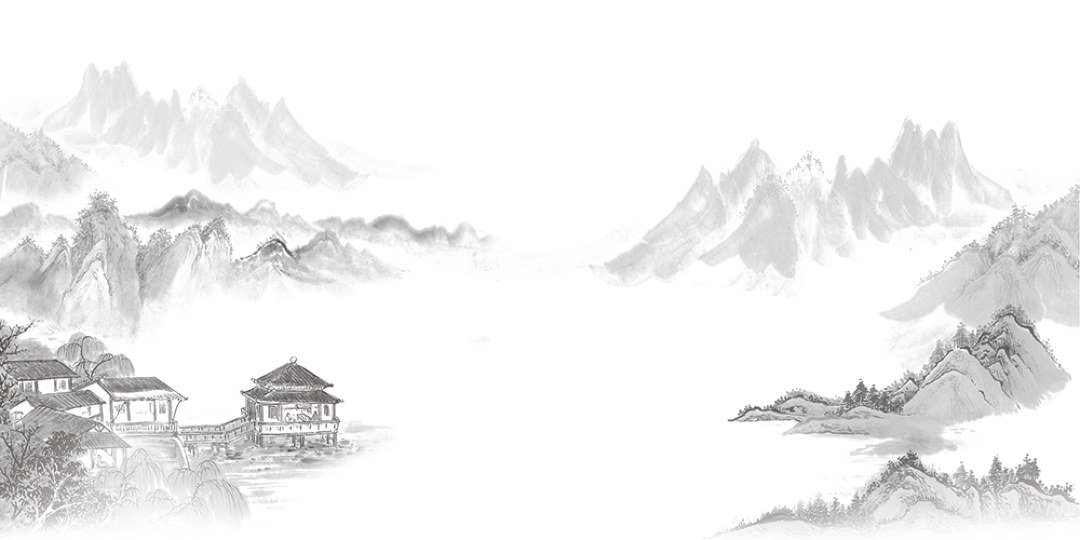
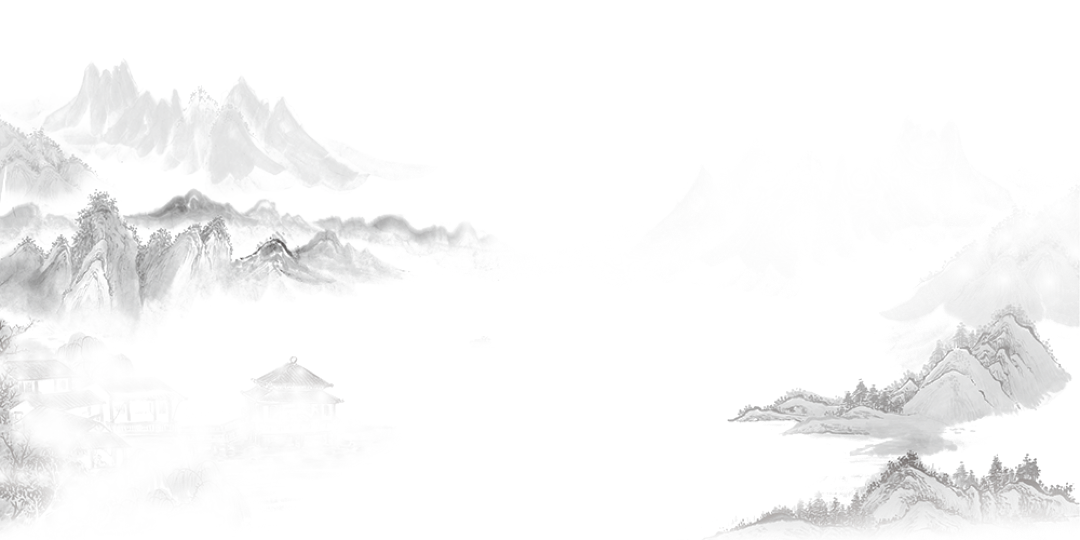
add images for home

Changed region(s): [[0.0, 0.5926, 0.3361, 0.9778], [0.55, 0.2074, 0.9167, 0.5333], [0.6722, 0.3259, 1.0, 0.8]]

diff --git a/csa_at_uva_ui/src/Home/Home.css b/csa_at_uva_ui/src/Home/Home.css
@@ -1,0 +1,57 @@
+main {
+    background-color: white;
+    height: 100vh;
+    width: 100vw;
+    overflow: hidden;
+    position: relative;
+}
+.bg-img {
+    position: absolute;
+    width: 100%;
+    top: 50%;
+    left: 50%;
+    transform: translate(-50%, -50%);
+    z-index: 1;
+}
+
+.text {
+    position: absolute;
+    top: 50%;
+    left: 50%;
+    transform: translate(-50%, -50%);
+    text-align: center;
+    text-transform: uppercase;
+    z-index: 2;
+}
+
+.text h2 {
+    color: black;
+    font-weight: 500;
+    font-size: 4rem;
+    line-height: 0.5;
+}
+
+.text h1 {
+    color: #7b1500;
+    font-weight: 800;
+    font-size: 6rem;
+    line-height: 0.5;
+}
+
+.mtn {
+    position: absolute;
+    width: 50%;
+    top: calc(34%);
+    left: calc(75%);
+    transform: translate(-50%, -50%);
+    z-index: 3;
+}
+
+.house {
+    position: absolute;
+    width:50%;
+    top: calc(73%);
+    left: calc(25%);
+    transform: translate(-50%, -50%);
+    z-index: 3;
+}

diff --git a/csa_at_uva_ui/src/Home/Home.js b/csa_at_uva_ui/src/Home/Home.js
@@ -1,12 +1,20 @@
 import './Home.css';
 
 function Home() {
-  return (
-    <div className="App">
-      <header className="App-header">
-      </header>
-    </div>
-  );
+    return (
+        <div className="Home">
+            <main>
+                <img src="main background.png" className="parallax bg-img" />
+                <div className="parallax text">
+                    <h2>Welcome to</h2>
+                    <h1>CSA at UVA</h1>
+                    </div>
+                    <img src="mountains_back.png" className="parallax mtn" />
+                    <img src="house_left.png" className="parallax house" />
+
+            </main>
+        </div>
+    );
 }
 
 export default Home;

diff --git a/csa_at_uva_ui/src/Navbar/Navbar.css b/csa_at_uva_ui/src/Navbar/Navbar.css
@@ -6,11 +6,15 @@
 .navbar-header {
     width: 100%;
     border-bottom: 1px solid rgba(255, 255, 255, 0.1);
+    z-index: 9999;
+    padding: 0.9rem 0;
+    top: 0;
+    bottom: 0;
+    position: absolute;
 }
 
 .navbar-header nav {
-    background-color: #efefef;
-    max-width: 95%;
+    background: rgba(215, 215, 215, .2);
     margin: 0 auto;
     padding: 0 2rem;
     display: flex;

diff --git a/csa_at_uva_ui/public/index.html b/csa_at_uva_ui/public/index.html
@@ -2,7 +2,7 @@
 <html lang="en">
   <head>
     <meta charset="utf-8" />
-    <link rel="icon" href="%PUBLIC_URL%/favicon.ico" />
+    <link rel="icon" href="csa-logo.png" />
     <meta name="viewport" content="width=device-width, initial-scale=1" />
     <meta name="theme-color" content="#000000" />
     <meta

diff --git a/csa_at_uva_ui/src/App/App.css b/csa_at_uva_ui/src/App/App.css
@@ -5,7 +5,3 @@
   color: white;
 }
 
-.App-link {
-  color: #61dafb;
-}
-
